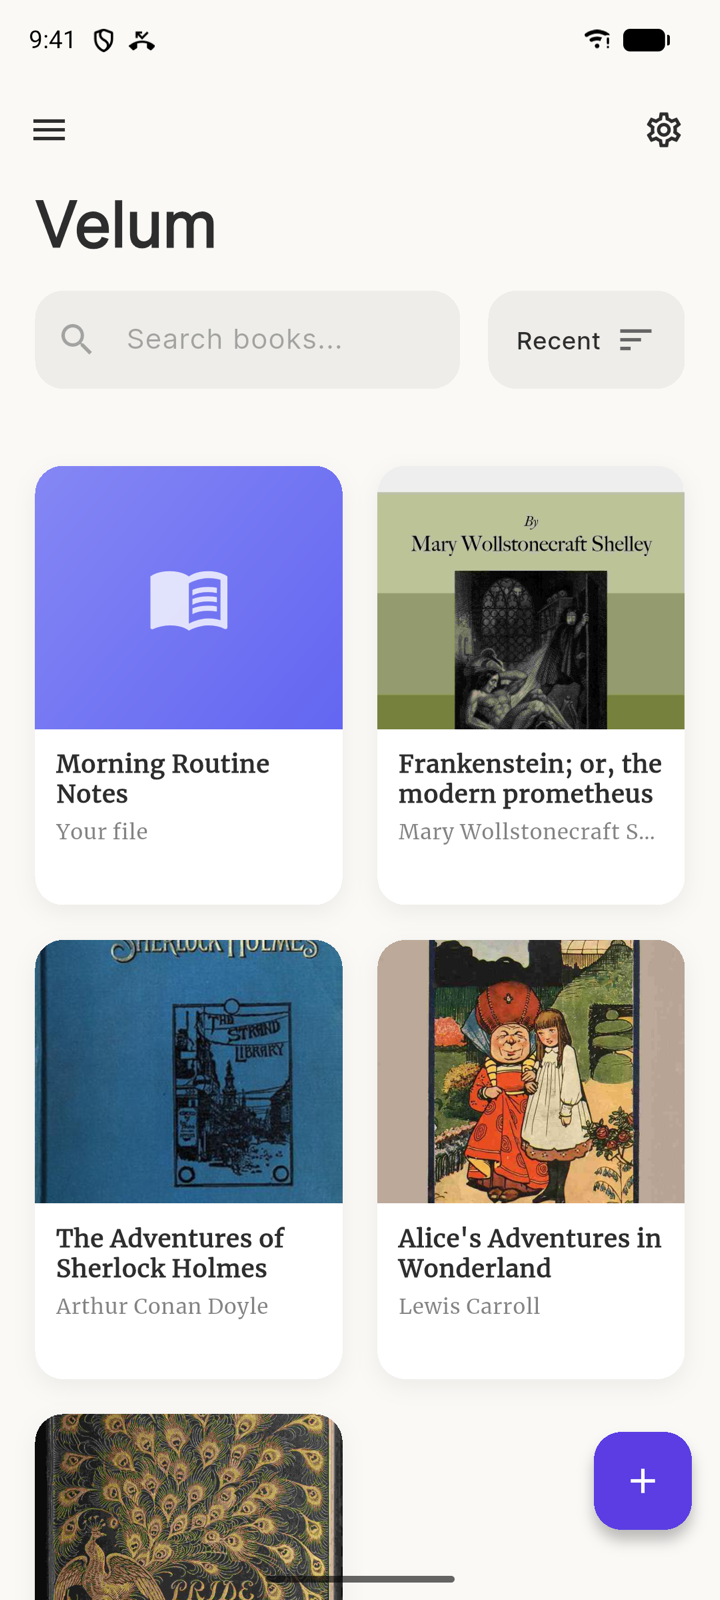
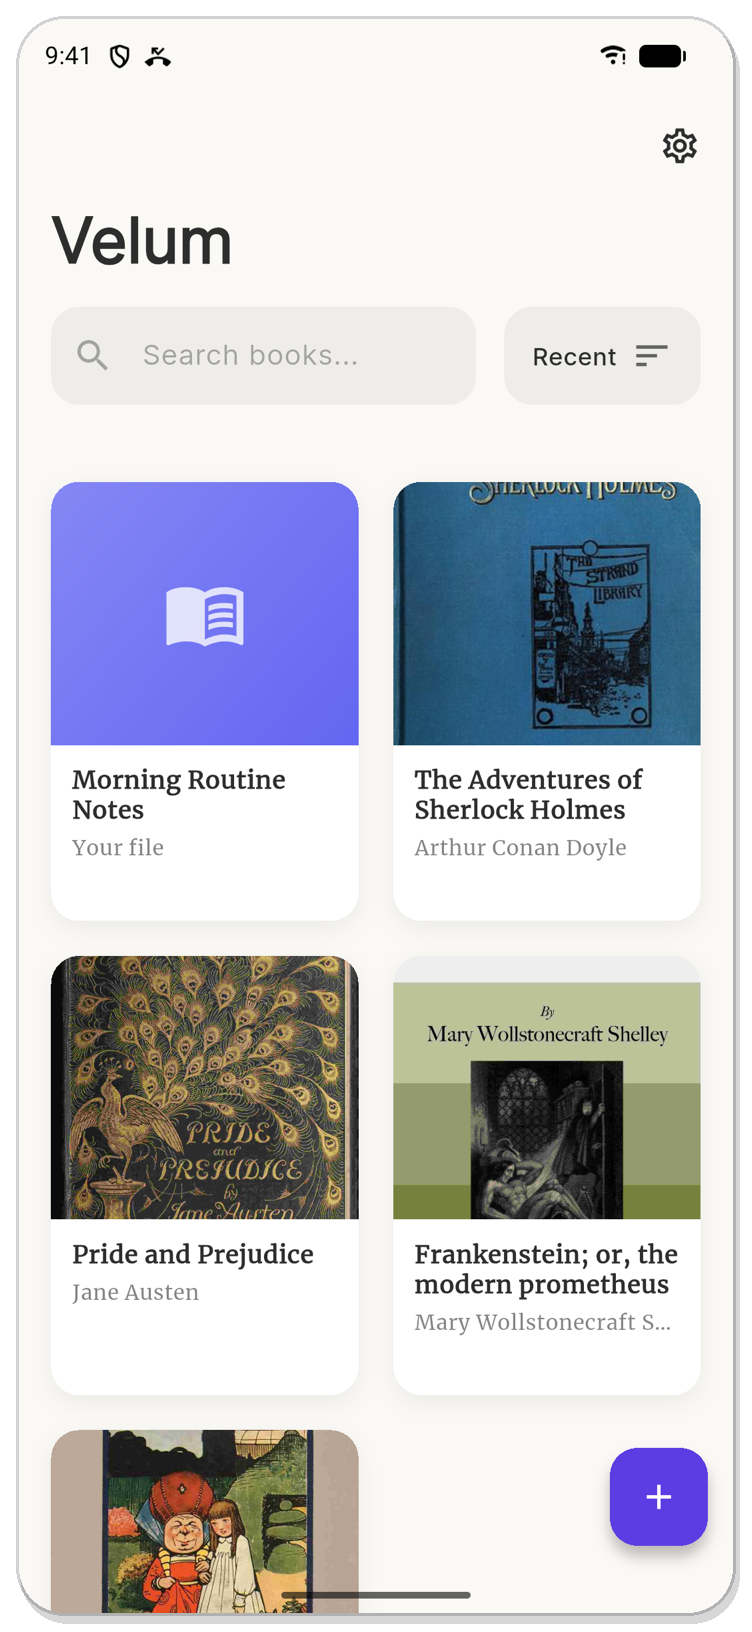
feat: + popup menu with From Files / Create New; note titles; cleaner README shots
- Replace the library side menu with a small popup menu above the + button:
  "From Files" (import EPUBs) and "Create New" (note editor).
- Note editor: title field is back; empty titles save as "Untitled Note";
  placeholder reads "Start writing… or paste your content."
- README: fewer, framed screenshots (library, read-aloud, voice settings,
  + menu, editor) and one side-by-side image of the three reader themes.

diff --git a/lib/features/library/presentation/screens/library_screen.dart b/lib/features/library/presentation/screens/library_screen.dart
@@ -154,69 +154,95 @@ class _LibraryScreenState extends State<LibraryScreen> {
     return colors[hash % colors.length];
   }
 
-  final GlobalKey<ScaffoldState> _scaffoldKey = GlobalKey<ScaffoldState>();
+  final GlobalKey _addButtonKey = GlobalKey();
 
-  Widget _buildDrawer(ReaderTheme theme) {
-    Widget item(IconData icon, String label, String? subtitle, VoidCallback onTap) {
-      return ListTile(
-        leading: Icon(icon, color: theme.textColor),
-        title: Text(
-          label,
-          style: GoogleFonts.inter(
-            color: theme.textColor,
-            fontSize: 16,
-            fontWeight: FontWeight.w500,
-          ),
-        ),
-        subtitle: subtitle == null
-            ? null
-            : Text(
-                subtitle,
-                style: GoogleFonts.inter(
-                  color: theme.textColor.withAlpha(120),
-                  fontSize: 12.5,
-                ),
-              ),
-        contentPadding: const EdgeInsets.symmetric(horizontal: 24, vertical: 4),
+  /// "+" button: a small popup menu just above it with the two ways to add
+  /// something.
+  void _showAddMenu(ReaderTheme theme, LibraryNotifier notifier) {
+    final box = _addButtonKey.currentContext?.findRenderObject() as RenderBox?;
+    if (box == null) return;
+    final fabTopLeft = box.localToGlobal(Offset.zero);
+    final screen = MediaQuery.of(context).size;
+    final right = screen.width - (fabTopLeft.dx + box.size.width);
+    final bottom = screen.height - fabTopLeft.dy + 12;
+
+    Widget item(BuildContext menuContext, IconData icon, String label,
+        VoidCallback onTap) {
+      return InkWell(
         onTap: () {
-          Navigator.of(context).pop(); // close the drawer
+          Navigator.of(menuContext).pop();
           onTap();
         },
+        child: Padding(
+          padding: const EdgeInsets.symmetric(horizontal: 20, vertical: 14),
+          child: Row(
+            mainAxisSize: MainAxisSize.min,
+            children: [
+              Icon(icon, size: 22, color: _accent),
+              const SizedBox(width: 14),
+              Text(
+                label,
+                style: GoogleFonts.inter(
+                  color: theme.textColor,
+                  fontSize: 16,
+                  fontWeight: FontWeight.w500,
+                ),
+              ),
+            ],
+          ),
+        ),
       );
     }
 
-    return Drawer(
-      backgroundColor: theme.backgroundColor,
-      child: SafeArea(
-        child: Column(
-          crossAxisAlignment: CrossAxisAlignment.start,
-          children: [
-            Padding(
-              padding: const EdgeInsets.fromLTRB(24, 24, 24, 16),
-              child: Text(
-                'Velum',
-                style: TextStyle(
-                  fontSize: 24,
-                  fontWeight: FontWeight.bold,
-                  color: theme.textColor,
+    showGeneralDialog(
+      context: context,
+      barrierDismissible: true,
+      barrierLabel: 'Close menu',
+      barrierColor: Colors.black.withAlpha(25),
+      transitionDuration: const Duration(milliseconds: 160),
+      pageBuilder: (menuContext, _, _) => Stack(
+        children: [
+          Positioned(
+            right: right,
+            bottom: bottom,
+            child: Material(
+              color: theme == ReaderTheme.dark
+                  ? const Color(0xFF2A2A2A)
+                  : Colors.white,
+              elevation: 8,
+              shadowColor: Colors.black38,
+              borderRadius: BorderRadius.circular(20),
+              clipBehavior: Clip.antiAlias,
+              child: IntrinsicWidth(
+                child: Column(
+                  mainAxisSize: MainAxisSize.min,
+                  crossAxisAlignment: CrossAxisAlignment.stretch,
+                  children: [
+                    item(menuContext, Icons.folder_open_outlined, 'From Files',
+                        notifier.pickFiles),
+                    Divider(height: 1, color: theme.textColor.withAlpha(20)),
+                    item(menuContext, Icons.edit_note, 'Create New',
+                        () => context.push('/editor')),
+                  ],
                 ),
               ),
             ),
-            item(
-              Icons.note_add_outlined,
-              'New File',
-              'Paste text to listen to',
-              () => context.push('/editor'),
-            ),
-            item(
-              Icons.settings_outlined,
-              'Settings',
-              null,
-              () => context.push('/settings'),
-            ),
-          ],
-        ),
+          ),
+        ],
       ),
+      // Grow out of the + button.
+      transitionBuilder: (_, animation, _, child) {
+        final curved =
+            CurvedAnimation(parent: animation, curve: Curves.easeOutCubic);
+        return FadeTransition(
+          opacity: curved,
+          child: ScaleTransition(
+            scale: Tween(begin: 0.85, end: 1.0).animate(curved),
+            alignment: Alignment.bottomRight,
+            child: child,
+          ),
+        );
+      },
     );
   }
 
@@ -228,9 +254,7 @@ class _LibraryScreenState extends State<LibraryScreen> {
     final books = libraryNotifier.sortedAndFilteredBooks;
 
     return Scaffold(
-      key: _scaffoldKey,
       backgroundColor: theme.backgroundColor,
-      drawer: _buildDrawer(theme),
       body: RefreshIndicator(
         onRefresh: () => libraryNotifier.refresh(),
         color: _accent,
@@ -249,11 +273,7 @@ class _LibraryScreenState extends State<LibraryScreen> {
                       icon: Icon(Icons.close, color: theme.textColor),
                       onPressed: _cancelSelection,
                     )
-                  : IconButton(
-                      icon: Icon(Icons.menu, color: theme.textColor),
-                      onPressed: () => _scaffoldKey.currentState?.openDrawer(),
-                      tooltip: 'Menu',
-                    ),
+                  : null,
               title: _selectionMode
                   ? Text(
                       '${_selectedBooks.length} selected',
@@ -282,29 +302,16 @@ class _LibraryScreenState extends State<LibraryScreen> {
                   ),
                 const SizedBox(width: 8),
               ],
-              flexibleSpace: LayoutBuilder(
-                builder: (context, constraints) {
-                  // 1 when fully expanded, 0 when collapsed: slide the title
-                  // right as it collapses so it clears the menu button.
-                  final top = MediaQuery.of(context).padding.top;
-                  final t = ((constraints.maxHeight - top - kToolbarHeight) /
-                          (120.0 - kToolbarHeight))
-                      .clamp(0.0, 1.0);
-                  return FlexibleSpaceBar(
-                    titlePadding: EdgeInsets.only(
-                      left: 20 + 52 * (1 - t),
-                      bottom: 16,
-                    ),
-                    title: Text(
-                      'Velum',
-                      style: TextStyle(
-                        fontSize: 24,
-                        fontWeight: FontWeight.bold,
-                        color: theme.textColor,
-                      ),
-                    ),
-                  );
-                },
+              flexibleSpace: FlexibleSpaceBar(
+                titlePadding: const EdgeInsets.only(left: 20, bottom: 16),
+                title: Text(
+                  'Velum',
+                  style: TextStyle(
+                    fontSize: 24,
+                    fontWeight: FontWeight.bold,
+                    color: theme.textColor,
+                  ),
+                ),
               ),
             ),
 
@@ -439,7 +446,10 @@ class _LibraryScreenState extends State<LibraryScreen> {
       ),
       floatingActionButton: !_selectionMode
           ? FloatingActionButton(
-              onPressed: () => libraryNotifier.pickFiles(),
+              key: _addButtonKey,
+              onPressed: libraryNotifier.isScanning
+                  ? null
+                  : () => _showAddMenu(theme, libraryNotifier),
               backgroundColor: _accent,
               child: libraryNotifier.isScanning
                   ? const SizedBox(

diff --git a/assets/js/editor.html b/assets/js/editor.html
@@ -13,6 +13,11 @@
     padding: 16px 20px 40px;
     -webkit-tap-highlight-color: transparent;
   }
+  #title {
+    width: 100%; border: 0; outline: 0; background: transparent; color: var(--text);
+    font: 700 26px/1.3 'Merriweather', Georgia, serif; padding: 8px 0 12px;
+  }
+  #title::placeholder { color: var(--muted); }
   #editor { outline: 0; min-height: 60vh; word-wrap: break-word; }
   #editor:empty::before { content: attr(data-placeholder); color: var(--muted); }
   #editor h1 { font-size: 1.5em; line-height: 1.3; }
@@ -26,13 +31,20 @@
 </style>
 </head>
 <body>
-<div id="editor" contenteditable="true" data-placeholder="Paste here…"></div>
+<input id="title" placeholder="Title" autocomplete="off" enterkeyhint="next">
+<div id="editor" contenteditable="true" data-placeholder="Start writing… or paste your content."></div>
 <script>
 var editor = document.getElementById('editor');
+var title = document.getElementById('title');
 document.execCommand('defaultParagraphSeparator', false, 'p');
 
 function post(msg) { if (window.Editor) Editor.postMessage(msg); }
 editor.addEventListener('input', function() { post('dirty'); });
+title.addEventListener('input', function() { post('dirty'); });
+// Enter in the title moves on to the text.
+title.addEventListener('keydown', function(e) {
+  if (e.key === 'Enter') { e.preventDefault(); editor.focus(); }
+});
 
 // ── Paste: keep structure (headings, lists, emphasis, links, tables),
 // drop colours, fonts, sizes, classes, images and scripts.
@@ -101,11 +113,12 @@ window.setTheme = function(text, bg, muted) {
   var r = document.documentElement.style;
   r.setProperty('--text', text); r.setProperty('--bg', bg); r.setProperty('--muted', muted);
 };
-window.setDoc = function(html) { editor.innerHTML = html; };
+window.setDoc = function(t, html) { title.value = t; editor.innerHTML = html; };
 window.getDoc = function() {
-  post('doc:' + JSON.stringify({ html: editor.innerHTML, text: editor.innerText.trim() }));
+  post('doc:' + JSON.stringify({ title: title.value.trim(), html: editor.innerHTML,
+    text: editor.innerText.trim() }));
 };
-window.focusEditor = function() { editor.focus(); };
+window.focusEditor = function() { (title.value ? editor : title).focus(); };
 </script>
 </body>
 </html>

diff --git a/lib/features/notes/presentation/note_editor_screen.dart b/lib/features/notes/presentation/note_editor_screen.dart
@@ -11,8 +11,8 @@ import '../../library/presentation/providers/library_notifier.dart';
 import '../../settings/presentation/providers/settings_notifier.dart';
 import '../data/note_service.dart';
 
-/// Paste a text ("New File") — e.g. a whole Google Doc — so it can be read
-/// and listened to like a book. Pass [path] to edit an existing one.
+/// Write or paste a text ("Create New") — e.g. a whole Google Doc — so it can
+/// be read and listened to like a book. Pass [path] to edit an existing one.
 class NoteEditorScreen extends StatefulWidget {
   final String? path;
 
@@ -65,7 +65,7 @@ class _NoteEditorScreenState extends State<NoteEditorScreen> {
       final note = await _notes.load(path);
       if (note != null) {
         await _controller.runJavaScript(
-          'window.setDoc(${jsonEncode(note.html)});',
+          'window.setDoc(${jsonEncode(note.title)}, ${jsonEncode(note.html)});',
         );
       }
     }
@@ -93,12 +93,11 @@ class _NoteEditorScreenState extends State<NoteEditorScreen> {
       final doc = await pending.future.timeout(const Duration(seconds: 5));
       final text = (doc['text'] as String? ?? '').trim();
       if (text.isEmpty) {
-        _showMessage('Paste something first');
+        _showMessage('Write or paste something first');
         return;
       }
-      // Named after its first line, shortened.
-      var title = text.split('\n').first.trim();
-      if (title.length > 60) title = '${title.substring(0, 57).trimRight()}…';
+      var title = (doc['title'] as String? ?? '').trim();
+      if (title.isEmpty) title = 'Untitled Note';
 
       final path = await _notes.save(
         Note(title, doc['html'] as String),
@@ -182,7 +181,7 @@ class _NoteEditorScreenState extends State<NoteEditorScreen> {
           foregroundColor: theme.textColor,
           elevation: 0,
           title: Text(
-            widget.path == null ? 'New file' : 'Edit file',
+            widget.path == null ? 'New note' : 'Edit note',
             style: TextStyle(fontSize: 16, color: theme.textColor),
           ),
           actions: [

diff --git a/README.md b/README.md
@@ -19,7 +19,7 @@ Open an EPUB, press play, and follow along as each sentence lights up.
 
 <img src="docs/screenshots/library.png" width="30%" alt="Library" />&nbsp;
 <img src="docs/screenshots/read-aloud.png" width="30%" alt="Reading with sentence highlighting" />&nbsp;
-<img src="docs/screenshots/new-file.png" width="30%" alt="Pasting a document into New File" />
+<img src="docs/screenshots/new-note.png" width="30%" alt="A pasted document in the note editor" />
 
 </div>
 
@@ -29,7 +29,7 @@ Open an EPUB, press play, and follow along as each sentence lights up.
 
 - 🔊 **Read-aloud with live highlighting.** Uses your phone's own voice, works offline, and starts instantly. Each sentence or paragraph lights up as it's spoken.
 - ▶ **Starts where you are.** Press play to begin at the first sentence on screen, or double-tap any sentence to jump straight to it.
-- 📝 **New File.** Paste anything (a whole Google Doc, an article, notes) and listen to it like a book. Headings, lists and bold/italic come along; colours and clutter don't.
+- 📝 **Create New.** Tap **+** → **Create New**, then write or paste anything (a whole Google Doc, an article, notes) and listen to it like a book. Headings, lists and bold/italic come along; colours and clutter don't.
 - 📚 **Library.** Finds the EPUBs on your device automatically, with covers, search, sorting and pinning.
 - 📖 **Remembers your place.** Every chapter keeps its own scroll position and read-aloud spot, even after you close the app.
 - 🖍 **Highlights and bookmarks.** Five highlight colours and exact-position bookmarks, all in one panel.
@@ -40,24 +40,18 @@ Open an EPUB, press play, and follow along as each sentence lights up.
 
 <table>
   <tr>
-    <td align="center"><img src="docs/screenshots/library.png" width="240" alt="Library" /><br/><sub><b>Library</b></sub></td>
-    <td align="center"><img src="docs/screenshots/menu.png" width="240" alt="Side menu" /><br/><sub><b>Side menu</b></sub></td>
-    <td align="center"><img src="docs/screenshots/new-file.png" width="240" alt="New File" /><br/><sub><b>New File: paste a document</b></sub></td>
+    <td align="center" width="33%"><img src="docs/screenshots/library.png" alt="Library" /><br/><sub><b>Your library</b></sub></td>
+    <td align="center" width="33%"><img src="docs/screenshots/read-aloud.png" alt="Read-aloud" /><br/><sub><b>Each sentence lights up as it's read</b></sub></td>
+    <td align="center" width="33%"><img src="docs/screenshots/voice-settings.png" alt="Voice settings" /><br/><sub><b>Voice, speed and pitch</b></sub></td>
   </tr>
   <tr>
-    <td align="center"><img src="docs/screenshots/note-reader.png" width="240" alt="Pasted document in the reader" /><br/><sub><b>…then read or listen to it</b></sub></td>
-    <td align="center"><img src="docs/screenshots/read-aloud.png" width="240" alt="Read-aloud" /><br/><sub><b>Read-aloud highlighting</b></sub></td>
-    <td align="center"><img src="docs/screenshots/dark.png" width="240" alt="Dark theme" /><br/><sub><b>Dark theme · Back to reading</b></sub></td>
-  </tr>
-  <tr>
-    <td align="center"><img src="docs/screenshots/sepia.png" width="240" alt="Sepia theme" /><br/><sub><b>Sepia theme</b></sub></td>
-    <td align="center"><img src="docs/screenshots/tts-settings.png" width="240" alt="Voice settings" /><br/><sub><b>Voice settings</b></sub></td>
-    <td align="center"><img src="docs/screenshots/sleep-timer.png" width="240" alt="Sleep timer" /><br/><sub><b>Sleep timer</b></sub></td>
-  </tr>
-  <tr>
-    <td align="center" colspan="3"><img src="docs/screenshots/reader-settings.png" width="240" alt="Reader settings" /><br/><sub><b>Reader settings</b></sub></td>
+    <td align="center"><img src="docs/screenshots/add.png" alt="Add sheet" /><br/><sub><b>Tap + for From Files or Create New</b></sub></td>
+    <td align="center"><img src="docs/screenshots/new-note.png" alt="Note editor" /><br/><sub><b>Paste a document. Formatting is kept</b></sub></td>
+    <td></td>
   </tr>
 </table>
+
+<p align="center"><img src="docs/screenshots/themes.png" width="90%" alt="Light, dark and sepia themes" /><br/><sub><b>Light, dark and sepia</b></sub></p>
 
 ## 🔊 Read-aloud
 
@@ -131,7 +125,7 @@ flowchart LR
 
 - **One source of truth.** When a chapter opens, a single pass marks every sentence on the page *and* records the text the voice will speak, so the highlight and the voice can't drift apart. 16 automated tests guard this.
 - **Fast opening.** Only chapter text is read up front. Pictures are pulled from the book when a chapter needs them.
-- **Your own files.** A pasted document is saved as a small one-chapter EPUB alongside its editable source, so it opens, plays and searches like any book.
+- **Your own notes.** A note (titled, or "Untitled Note" by default) is saved as a small one-chapter EPUB alongside its editable source, so it opens, plays and searches like any book.
 
 <details>
 <summary><b>Tech stack</b></summary>
@@ -163,14 +157,14 @@ lib/
 ├── core/                     # Router, theme, ads
 └── features/
     ├── library/              # Library screen, scanning, imports
-    ├── notes/                # New File: paste editor + note storage
+    ├── notes/                # Create New: note editor + note storage
     ├── onboarding/           # First-launch setup
     ├── reader/               # Reader screen, chapter processor, highlights, bookmarks
     ├── settings/             # Reader settings and fonts
     └── tts/                  # Speech engines, playback, voice settings
 assets/js/
 ├── reader.js                 # Page script: gestures, highlights, follow mode
-└── editor.html               # New File paste area and clean-up
+└── editor.html               # Note editor: title, writing area, paste clean-up
 test/                         # Sentence alignment and note tests
 ```
 
